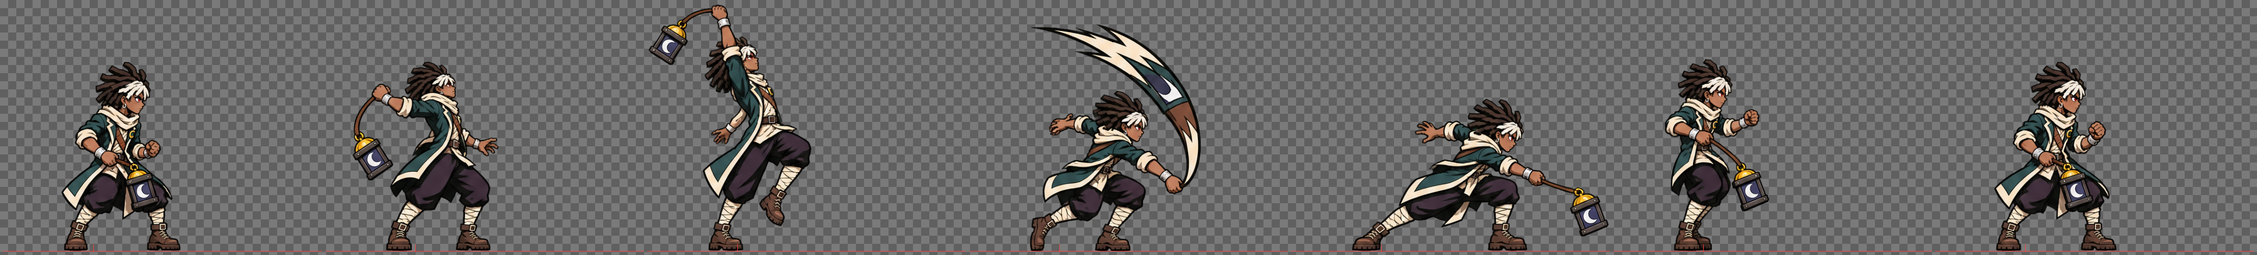
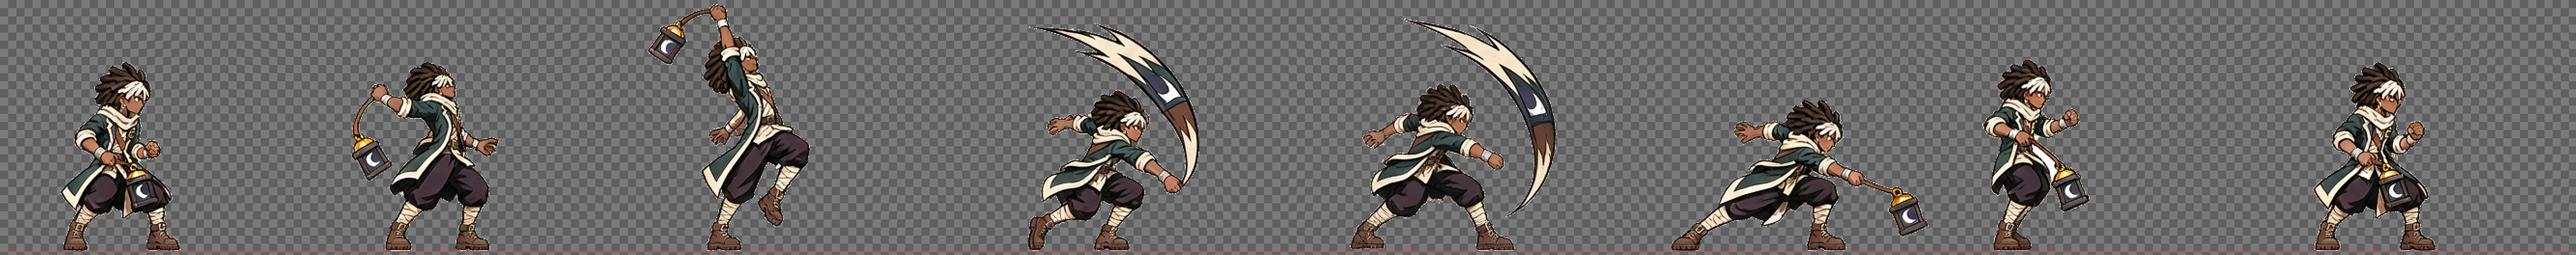
Avner: 5H gets a hitstop drawing, 2H gets its art
5H: the second row's fourth drawing of the new sheet is added after drawing 4,
on the frame the hit lands, so it is held through hitstop. Timing unchanged.
2H: the slide sheet replaces the placeholder. The sheet tool can join a shape
drawn apart from its body (join).

Claude-Session: https://claude.ai/code/session_01XDQqBAyT34HEXnArFczUN3

diff --git a/tests/lampbearer.test.js b/tests/lampbearer.test.js
@@ -337,8 +337,8 @@ test('every sheet the file names is there; placeholders say so in their name', (
   assert.ok(names.size > 50);
   for (const n of names) assert.ok(fs.existsSync(`data/characters/avner/${n}`), n);
   const waiting = [...names].filter((n) => n.includes('placeholder'));
-  for (const slot of ['2L', '2H', 'throw-forward', 'throw-back', 'drawn', 'full-moon', 'lantern-phase']) assert.ok(waiting.some((n) => n.includes(`/${slot}-placeholder`)), `${slot} is marked as a placeholder`);
-  for (const real of ['hit-stand', 'hit-crouch', 'hit-air', 'tumble', 'knockdown', 'wakeup', 'idle', 'crouch', '5L', '5H', 'rising-moon', 'moon', 'lunar-halo', 'halo-burst', 'tide', 'tide-wave', 'crescent', 'moonbeam', 'new-moon']) assert.ok(names.has(`sheets/${real}.png`), `${real} uses the owner's art`);
+  for (const slot of ['2L', 'throw-forward', 'throw-back', 'drawn', 'full-moon', 'lantern-phase']) assert.ok(waiting.some((n) => n.includes(`/${slot}-placeholder`)), `${slot} is marked as a placeholder`);
+  for (const real of ['2H', 'hit-stand', 'hit-crouch', 'hit-air', 'tumble', 'knockdown', 'wakeup', 'idle', 'crouch', '5L', '5H', 'rising-moon', 'moon', 'lunar-halo', 'halo-burst', 'tide', 'tide-wave', 'crescent', 'moonbeam', 'new-moon']) assert.ok(names.has(`sheets/${real}.png`), `${real} uses the owner's art`);
 });
 
 test('sync test: the whole kit, rewinding 8 frames every frame, never differs', () => {
@@ -387,4 +387,23 @@ test('Tide and Rising Moon cancel into Moonlit once the wave or moon is out, not
   assert.equal(g.players[0].vars.moonmark, 1);
   run(g, '2 3 6+L 5*10 5+R 5*2');
   assert.equal(g.players[0].state, 'moonSnap');
+});
+
+test('5H: the extra slash drawing sits on the frame the hit lands, so it is the one held through hitstop', () => {
+  const st = A.states['5H'];
+  const first = st.frames.findIndex((f) => f.hit.length);
+  assert.equal(st.frames[first].sprite.index, 4, 'the new drawing (fifth on the sheet) on the first hitting frame');
+  assert.equal(st.frames[first - 1].sprite.index, 3, 'the first row\'s fourth drawing just before it');
+  assert.equal(st.frames.filter((f) => f.sprite.index === 4).length, 1, 'one frame only when the swing misses');
+  assert.equal(st.frames[first + 1].sprite.index, 5);
+  const g = setup(120);
+  const p = g.players[0];
+  let held = 0, hit = false;
+  for (const raw of script('5+H 5*50')) {
+    step(g, [raw, 0], W);
+    if (g.cues.some((c) => c.type === 'hit')) hit = true;
+    if (hit && p.state === '5H' && st.frames[p.frame].sprite.index === 4) held++;
+  }
+  assert.ok(hit);
+  assert.ok(held >= st.move.hitstop, `held through the freeze (${held} frames, hitstop ${st.move.hitstop})`);
 });

diff --git a/CLAUDE.md b/CLAUDE.md
@@ -60,7 +60,7 @@ doesn't read code. **Every report to him is in plain words.**
 
 Current through **Phase 9** (all phases of the brief done), plus **Avner: Brand of Light** (report `docs/reports/avner-brand.md`) and his art (`avner-art.md`, `avner-hook.md`, `avner-moves.md`, `avner-vigil.md`).
 
-- **Avner is the Lampbearer now** (Nov 23; report `docs/reports/avner-lampbearer.md`, tests `tests/lampbearer.test.js`). The old chain kit (Brand of Light, Vigil, Lumen Hook, Reel, Lightstep: the two bullets marked *archived* below) lives whole in `data/characters/_archive/avner_chain/` (not loaded by the game; its tests `avner-moves`, `avner-vigil`, `brand` and part of `rite` read it there). Live kit, all data: lantern normals (`backHeavy` = 4H Crescent Kick), Rising Moon `risingMoonL/M/H` (236; `spawn: { name: "risingMoon", x }` on frame 9 / 13 / 17, EX `{ under: "opponent" }` of `risingMoonEx`), Lunar Halo `haloL/M/H` (623; a circle of boxes, `fx` `haloBurstL/M/H`), Tide `tideL/M/H` (214; projectile with `ownerOnHit: "tidePull"` and `pull`), the Rite Moonlit (`moonlit5/6/2/J` place projectile `crescent`, a `noHit` `persist` light with a `zone`; `moonSnap` = R with var `moonmark`, `remote`; `moonRecall` = R without; var `moonCooldown` 240 set by the crescent's `onEnd`), supers `newMoon` (236236S) and `fullMoon` (214214S, level 3, `requires: { meter: 400 }`, projectile `moonColumn`). Engine pieces, general (character.js / fighter.js / combat.js): timeline `spawn` as `{ name, x, y, under: "opponent" }`, timeline `endProjectile`, projectile `phases` (hitbox live only at those ages), `persist` (stays after its hit, never clashes; `pr.hit`), `noHit`, `zone` (`inZone` in fighter.js: gravity share in `move`, mark var in `applyStrike`), `onEnd.setVar`, `ownerOnHit` (`pr.from`), move fields `oneAtATime` as a list, `needsOut`, `hitsAirborne: false`, `noZoneMark`. Drawing only: top-level `art` (`def.art`; `ruleFrame` / `exitArt` / `drawLantern` in fight-renderer.js): `byVy` (air drawings by vertical speed), `exit` (drawings that finish playing in the next state), `guard` (guard drawing while holding back from an attack), `lantern` (moon phase by Devotion bars, at the lantern's measured place per drawing), move `pinFx`; effects and `hitFx` take `holds`. Sheets: `node scripts/avner-prep.mjs` (drawn `Avner_*.png` → `sheets/`, `previews/` contact sheets and GIFs, `sheets/manifest.json` with sprite blocks and lantern points; per-sheet table at the top of the script); `node scripts/make-lantern-phases.mjs`; `node scripts/shots.mjs <folder> lamp` for in-game pictures. An explicit sprite order on a state (crouch, `tidePull`, blocks) = `holds: [whole length]` plus timeline `sprite` events. Placeholders are listed in the report. Tide and Rising Moon (and their EX) carry a hand-written `cancels` window into the ground Rite moves, on whiff / hit / block, from the frame after their `spawn` (owner, Nov 23). HIT SETTINGS has a "Hits airborne" switch (`hitsAirborne`; a yes/no field with `fallback: true` reads yes when unset and writes only a no).
+- **Avner is the Lampbearer now** (Nov 23; report `docs/reports/avner-lampbearer.md`, tests `tests/lampbearer.test.js`). The old chain kit (Brand of Light, Vigil, Lumen Hook, Reel, Lightstep: the two bullets marked *archived* below) lives whole in `data/characters/_archive/avner_chain/` (not loaded by the game; its tests `avner-moves`, `avner-vigil`, `brand` and part of `rite` read it there). Live kit, all data: lantern normals (`backHeavy` = 4H Crescent Kick), Rising Moon `risingMoonL/M/H` (236; `spawn: { name: "risingMoon", x }` on frame 9 / 13 / 17, EX `{ under: "opponent" }` of `risingMoonEx`), Lunar Halo `haloL/M/H` (623; a circle of boxes, `fx` `haloBurstL/M/H`), Tide `tideL/M/H` (214; projectile with `ownerOnHit: "tidePull"` and `pull`), the Rite Moonlit (`moonlit5/6/2/J` place projectile `crescent`, a `noHit` `persist` light with a `zone`; `moonSnap` = R with var `moonmark`, `remote`; `moonRecall` = R without; var `moonCooldown` 240 set by the crescent's `onEnd`), supers `newMoon` (236236S) and `fullMoon` (214214S, level 3, `requires: { meter: 400 }`, projectile `moonColumn`). Engine pieces, general (character.js / fighter.js / combat.js): timeline `spawn` as `{ name, x, y, under: "opponent" }`, timeline `endProjectile`, projectile `phases` (hitbox live only at those ages), `persist` (stays after its hit, never clashes; `pr.hit`), `noHit`, `zone` (`inZone` in fighter.js: gravity share in `move`, mark var in `applyStrike`), `onEnd.setVar`, `ownerOnHit` (`pr.from`), move fields `oneAtATime` as a list, `needsOut`, `hitsAirborne: false`, `noZoneMark`. Drawing only: top-level `art` (`def.art`; `ruleFrame` / `exitArt` / `drawLantern` in fight-renderer.js): `byVy` (air drawings by vertical speed), `exit` (drawings that finish playing in the next state), `guard` (guard drawing while holding back from an attack), `lantern` (moon phase by Devotion bars, at the lantern's measured place per drawing), move `pinFx`; effects and `hitFx` take `holds`. Sheets: `node scripts/avner-prep.mjs` (drawn `Avner_*.png` → `sheets/`, `previews/` contact sheets and GIFs, `sheets/manifest.json` with sprite blocks and lantern points; per-sheet table at the top of the script); `node scripts/make-lantern-phases.mjs`; `node scripts/shots.mjs <folder> lamp` for in-game pictures. An explicit sprite order on a state (crouch, `tidePull`, blocks) = `holds: [whole length]` plus timeline `sprite` events. Placeholders are listed in the report. Tide and Rising Moon (and their EX) carry a hand-written `cancels` window into the ground Rite moves, on whiff / hit / block, from the frame after their `spawn` (owner, Nov 23). 5H's sheet has an extra drawing (index 4) on the first hitting frame so it is held through hitstop; in `avner-prep.mjs` a sheet's `join: [[keep, loose]]` joins a shape drawn apart from its body. HIT SETTINGS has a "Hits airborne" switch (`hitsAirborne`; a yes/no field with `fallback: true` reads yes when unset and writes only a no).
 - **Brand of Light** (*archived kit*; Avner's old mechanic, all data): var `brand` (frames, 300 max, -1 per frame, `display: timer`,
   `mark`). Lumen Hook (`hookL/M/H`, 236 + L/M/H) adds 300 on hit and gatlings into `reel` / `lightstep` on hit
   only. Reel (214H) and Lightstep (214L) `require` brand ≥ 1 and `setVar` it to 0 on frame 0. Engine pieces, general

diff --git a/docs/reports/avner-lampbearer.md b/docs/reports/avner-lampbearer.md
@@ -122,7 +122,6 @@ Every one has `placeholder` in its file name (`data/characters/avner/sheets/`).
 | Slot | What stands in |
 | --- | --- |
 | 2L (low lantern jab) | A copy of the 2M drawings |
-| 2H (low lantern sweep) | A copy of the 2M drawings |
 | Forward throw, back throw | Copies of 5M and of the 2R cast |
 | Recall (the crescent returning) | A copy of the 2R cast |
 | Full Moon: his animation, the giant moon, the column | Copies of the Rising Moon body, the eclipse moon and the Snap beam (double size) |
@@ -188,6 +187,14 @@ j.H and j.S; the lantern flash on 2L; ground bounce and tech roll drawings of hi
   editor: it is 70 px tall, so it only reaches someone very low.
 - Your editor tuning since the first commit is committed with this (hitboxes, hitstop, 5M jump cancel, 5H air hit,
   the Crescent Kick's box brought back to the drawing). The test no longer pins the Crescent Kick's reach.
+
+- **5H has an extra slash drawing for the hit** (your sheet `Avner_HeavyPunch_SecondRowFourthFrameOnlyAfterFourthFrameOfFirstRow.png`).
+  Only the second row's fourth drawing is used. It comes after the first row's fourth drawing and sits on the frame the
+  hit lands (frame 14), so it is the drawing held through hitstop. On a miss it shows for that one frame. The first
+  row's fourth drawing moved one frame earlier; startup, active and recovery are unchanged. Its arc is drawn apart
+  from the body on the sheet, so the sheet tool joins the two (`join` in `scripts/avner-prep.mjs`).
+- **2H has its art** (`Avner_Crouching_HeavyPunch_Slide.png`, five drawings, held 5 / 6 / 4 / 10 / 14; the slide is on
+  the active frames). Its boxes were tuned on the placeholder and may want another look.
 
 ## Tests
 
